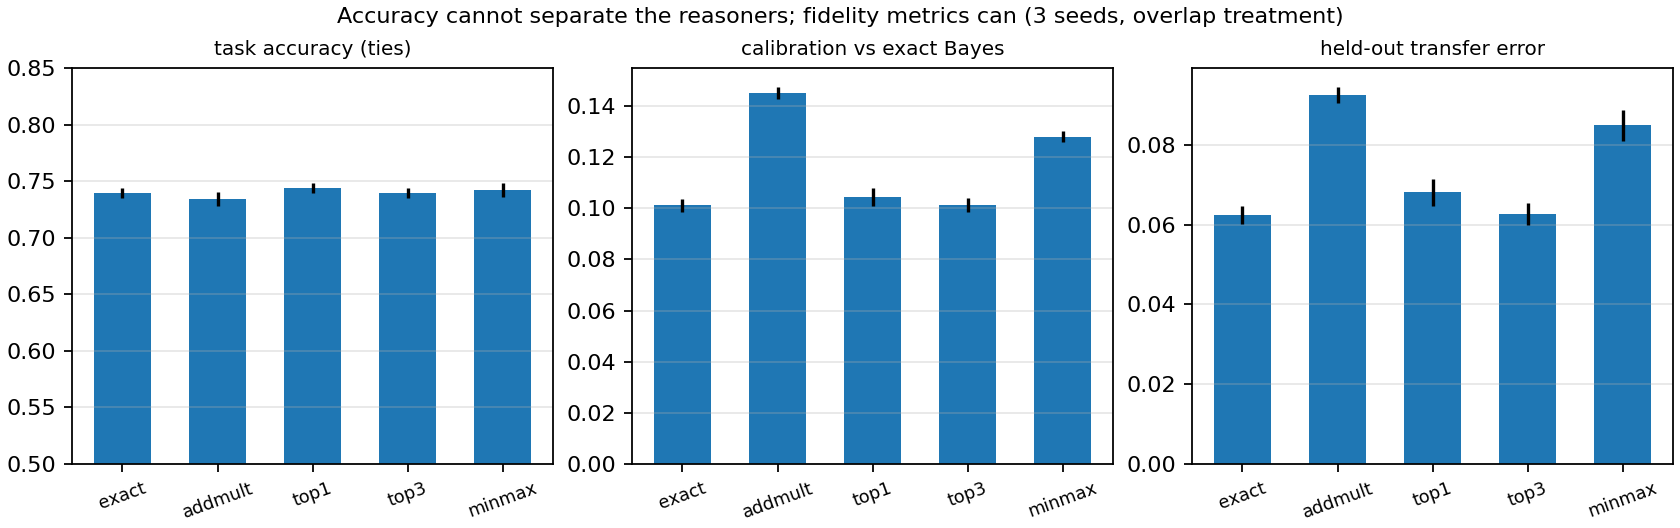
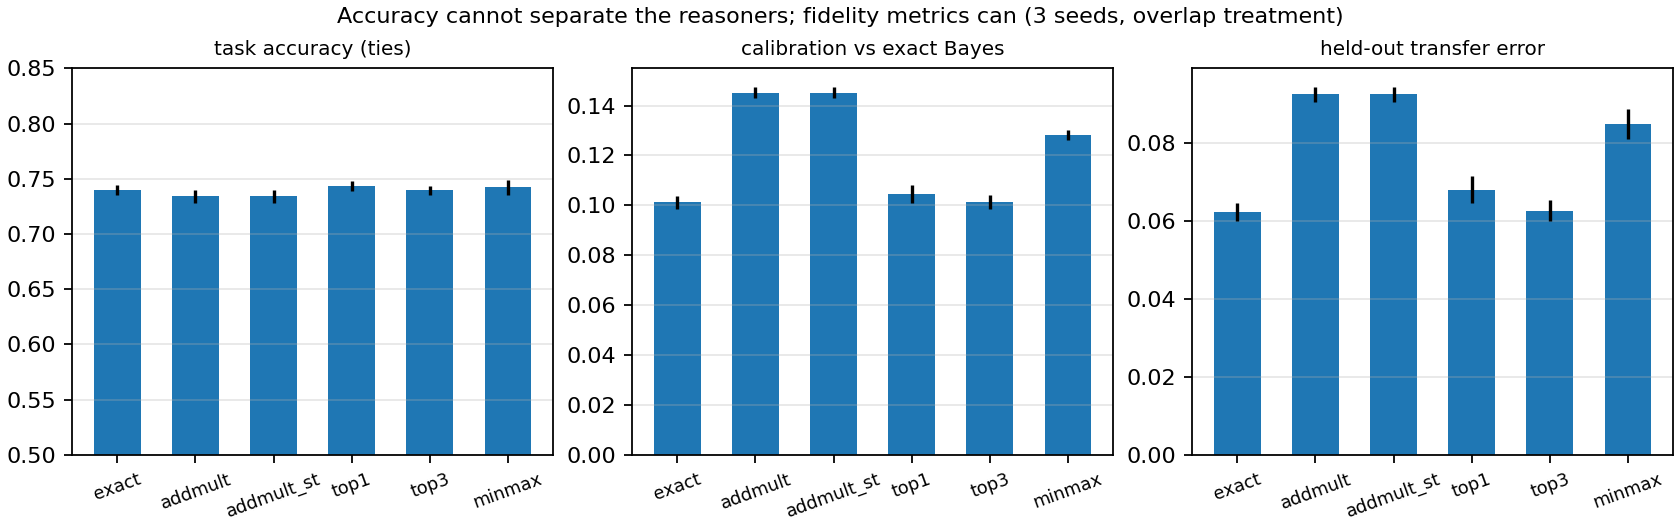
F-3 follow-up: straight-through clamp SUT; registered prediction refuted
AddMultStraightThrough (deployed diffaddmultprob semantics) in suts +
torch layer, parity-tested incl. saturation; E6 re-runs with registered
predictions: refuted — identical to min-clamp in both settings because
training never enters the clamp region; the F-3 inconsistency is an
inference-time phenomenon on these designs. Saturation-prone learning
task queued.

diff --git a/tests/test_learning_parity.py b/tests/test_learning_parity.py
@@ -70,3 +70,24 @@ def test_truth_matches_wmc_at_extremes():
     Z = torch.tensor(rng.random((40, len(facts))) < 0.5)
     v = S.wmc(Z.to(torch.float64))
     assert torch.allclose(v, S.truth(Z).to(torch.float64))
+
+
+def test_straight_through_clamp_matches_f3_semantics():
+    """F-3 model: clamped value, unclamped gradient — including at saturation,
+    where the min-clamp op has zero gradient."""
+    from nesyarena.suts import AddMultStraightThrough
+
+    inst = overlap_family(5, 2, 0, 0.9)  # raw sum >> 1 (clamp region)
+    facts = sorted(inst.probs, key=repr)
+    S = BatchStructure(inst.proofs, facts)
+    p = torch.full((1, len(facts)), 0.9, dtype=torch.float64, requires_grad=True)
+    v = prov_value("addmult_st", S, p)
+    v.sum().backward()
+    assert float(v.detach()[0]) == 1.0                      # clamped value
+    raw_ref = AddMult(clamp=False)
+    rg = raw_ref.grad(inst.proofs, inst.probs)
+    for j, f in enumerate(facts):
+        assert float(p.grad[0, j]) == pytest.approx(rg[f], abs=1e-10)
+    st = AddMultStraightThrough()
+    assert st.value(inst.proofs, inst.probs) == 1.0
+    assert st.grad(inst.proofs, inst.probs) == rg

diff --git a/src/nesyarena/suts.py b/src/nesyarena/suts.py
@@ -80,6 +80,23 @@ class AddMult(Provenance):
         return g
 
 
+class AddMultStraightThrough(Provenance):
+    """Deployed-faithful clamp per finding F-3 (Scallop diffaddmultprob):
+    the VALUE is the clamped proof-sum min(1, sum_j s_j), but the GRADIENT is
+    that of the UNCLAMPED sum — validated against deployed torch-tag autograd
+    to 4.8e-08 on the frozen saturation battery. The (value, gradient) pair is
+    mutually inconsistent in the clamp region by construction: that is the
+    deployed behavior being modeled, not a bug here."""
+
+    name = "add-mult(straight-through)"
+
+    def value(self, proofs, probs):
+        return min(1.0, sum(proof_score(pr, probs) for pr in proofs))
+
+    def grad(self, proofs, probs):
+        return AddMult(clamp=False).grad(proofs, probs)
+
+
 class TopK(Provenance):
     """Exact WMC restricted to the k highest-scoring proofs
     (difftopkproofs-style: differentiates the retained set, selection frozen;

diff --git a/experiments/e6_facttable.py b/experiments/e6_facttable.py
@@ -42,7 +42,8 @@ from nesyarena.oracle import wmc  # noqa: E402
 
 HERE = os.path.dirname(os.path.abspath(__file__))
 OUT = os.environ.get("NESYARENA_OUT", os.path.join(HERE, "..", "out"))
-SUT_K = {"exact": None, "addmult": None, "top1": 1, "top3": 3, "minmax": None}
+SUT_K = {"exact": None, "addmult": None, "addmult_st": None,
+         "top1": 1, "top3": 3, "minmax": None}
 EPS = 1e-4
 
 
@@ -105,7 +106,7 @@ def cat_value(name, terms, pA, pB, k):
     """Disjoint categorical sum. exact and addmult share one path: on
     mutually exclusive proofs add-mult IS distribution semantics (H9)."""
     vals = torch.stack([pA[i] * pB[j] for (i, j) in terms])
-    if name in ("exact", "addmult"):
+    if name in ("exact", "addmult", "addmult_st"):  # disjoint: no clamp active
         return vals.sum()
     if name.startswith("top"):
         order = torch.argsort(vals.detach(), descending=True)[:k]  # frozen

diff --git a/experiments/e6_pixels.py b/experiments/e6_pixels.py
@@ -40,7 +40,8 @@ from nesyarena.learning import BatchStructure, prov_value  # noqa: E402
 
 HERE = os.path.dirname(os.path.abspath(__file__))
 OUT = os.environ.get("NESYARENA_OUT", os.path.join(HERE, "..", "out"))
-SUT_K = {"exact": None, "addmult": None, "top1": 1, "top3": 3, "minmax": None}
+SUT_K = {"exact": None, "addmult": None, "addmult_st": None,
+         "top1": 1, "top3": 3, "minmax": None}
 EPS = 1e-4
 
 

diff --git a/out/RESULTS.md b/out/RESULTS.md
@@ -2,7 +2,7 @@
 
 All numbers produced by the rebuilt core (`src/nesyarena/`) via the
 config-driven runners in `experiments/`; configs and their sha256 are
-embedded in each JSON. Conformance/finding logs: `G2_scallop.md`,
+embedded in each JSON. Conformance logs (one per framework):
 `conformance_scallop.md` (findings F-1, F-3), `conformance_deeplog.md`,
 `conformance_problog_kbest.md`.
 
@@ -48,6 +48,7 @@ max |bias − tau·ln P| = 2.22e-16
 | SUT | control (disjoint) | treatment (overlap) | facts-quality | fact MAE |
 |---|---|---|---|---|
 | addmult | 0.010 ± 0.020 | 0.101 ± 0.029 | 0.123 | 0.128 |
+| addmult_st | 0.010 ± 0.020 | 0.101 ± 0.029 | 0.123 | 0.128 |
 | exact | 0.010 ± 0.020 | 0.000 ± 0.000 | 0.000 | 0.029 |
 | minmax | 0.071 ± 0.059 | 0.095 ± 0.045 | 0.212 | 0.272 |
 | top1 | 0.148 ± 0.076 | 0.109 ± 0.052 | 0.113 | 0.191 |
@@ -58,6 +59,7 @@ max |bias − tau·ln P| = 2.22e-16
 | SUT | accuracy | calibration vs Bayes | transfer | facts-quality |
 |---|---|---|---|---|
 | addmult | 0.734 ± 0.006 | 0.145 ± 0.002 | 0.093 ± 0.002 | 0.101 ± 0.002 |
+| addmult_st | 0.734 ± 0.006 | 0.145 ± 0.002 | 0.093 ± 0.002 | 0.101 ± 0.002 |
 | exact | 0.740 ± 0.004 | 0.101 ± 0.003 | 0.062 ± 0.002 | 0.062 ± 0.002 |
 | minmax | 0.742 ± 0.007 | 0.128 ± 0.002 | 0.085 ± 0.004 | 0.084 ± 0.001 |
 | top1 | 0.744 ± 0.005 | 0.105 ± 0.004 | 0.068 ± 0.003 | 0.069 ± 0.003 |

diff --git a/docs/ROADMAP.md b/docs/ROADMAP.md
@@ -73,10 +73,13 @@ they only share the frozen instance set and the adapter protocol.
    frozen reference implementation) to the rebuilt core.
 3. **Recursion-faithful add-mult reference variant** (per finding F-1) +
    recursive overlap sweeps against Scallop.
-4. **Straight-through add-mult reference SUT** (per finding F-3) in the
-   learning layer + re-run of the saturation-relevant E6 cells with it (the
-   deployed-faithful clamp may corrupt perception differently than the
-   min-clamp our published learning numbers model).
+4. **Straight-through add-mult reference SUT** (per finding F-3) — **done,
+   registered prediction refuted**: on both E6 settings training never
+   enters the clamp region, so straight-through and min-clamp trajectories
+   are identical to every decimal; the F-3 value/gradient inconsistency is
+   real at inference (E1: 100% clamp-pinned cells at p=0.9, P>=3) but
+   latent in these learning designs. Follow-up (open): a saturation-prone
+   learning task that keeps the raw proof-sum above 1 mid-training.
 5. **Negation axis** (stratified / conformance-by-refusal), specified in the
    protocol, not yet ported.
 6. **Random-DAG family** + two-level overlap surfaces (beyond the designed G1/G2).
